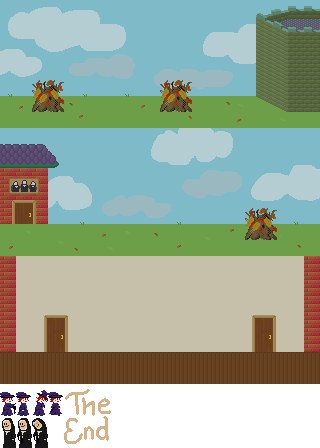
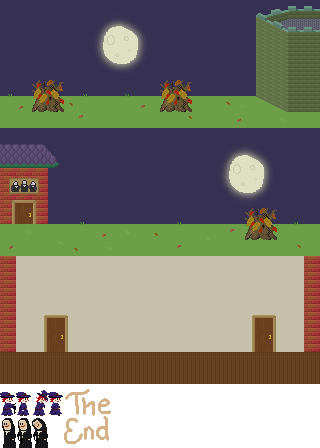
lots of visual tweaks

diff --git a/src/game/sprite/types/sprite_lock.c b/src/game/sprite/types/sprite_lock.c
@@ -3,6 +3,7 @@
 struct sprite_lock {
   struct sprite hdr;
   uint8_t lamps; // 1,2,4
+  double unlock_clock; // If nonzero, counts up.
 };
 
 #define SPRITE ((struct sprite_lock*)sprite)
@@ -15,6 +16,12 @@ static int _lock_init(struct sprite *sprite,const uint8_t *def,int defc) {
 }
 
 static void _lock_update(struct sprite *sprite,double elapsed) {
+  if (SPRITE->unlock_clock>0.0) {
+    if ((SPRITE->unlock_clock+=elapsed)>4.0) {
+      sprite_kill_later(sprite);
+      return;
+    }
+  }
 }
 
 static void _lock_render(struct sprite *sprite,int16_t addx,int16_t addy) {
@@ -22,9 +29,11 @@ static void _lock_render(struct sprite *sprite,int16_t addx,int16_t addy) {
   int16_t dsty=(int16_t)(sprite->y*TILESIZE)+addy;
   int texid=texcache_get_image(&g.texcache,sprite->imageid);
   graf_draw_tile(&g.graf,texid,dstx,dsty,sprite->tileid,0);
-  if (SPRITE->lamps&1) graf_draw_tile(&g.graf,texid,dstx,dsty,sprite->tileid+1,0);
-  if (SPRITE->lamps&2) graf_draw_tile(&g.graf,texid,dstx,dsty,sprite->tileid+2,0);
-  if (SPRITE->lamps&4) graf_draw_tile(&g.graf,texid,dstx,dsty,sprite->tileid+3,0);
+  if ((SPRITE->unlock_clock<=0.0)||!(((int)(SPRITE->unlock_clock*3.0))&1)) {
+    if (SPRITE->lamps&1) graf_draw_tile(&g.graf,texid,dstx,dsty,sprite->tileid+1,0);
+    if (SPRITE->lamps&2) graf_draw_tile(&g.graf,texid,dstx,dsty,sprite->tileid+2,0);
+    if (SPRITE->lamps&4) graf_draw_tile(&g.graf,texid,dstx,dsty,sprite->tileid+3,0);
+  }
 }
 
 const struct sprite_type sprite_type_lock={
@@ -37,10 +46,12 @@ const struct sprite_type sprite_type_lock={
 
 void sprite_lock_set_lamp(struct sprite *sprite,int index,int value) {
   if (!sprite||(sprite->type!=&sprite_type_lock)) return;
+  if (SPRITE->unlock_clock>0.0) return;
   if ((index<0)||(index>7)) return;
   if (value) SPRITE->lamps|=1<<index;
   else SPRITE->lamps&=~(1<<index);
-  if (SPRITE->lamps==0x07) {
+  if ((SPRITE->lamps==0x07)&&(SPRITE->unlock_clock<=0.0)) {
+    SPRITE->unlock_clock=0.001;
     int x=(int)sprite->x,y=(int)sprite->y;
     if ((x>=0)&&(y>=0)&&(x<COLC)&&(y<ROWC)) {
       // Clearing the map cell manages the physics of unlocking, and also the persistence.
@@ -48,6 +59,6 @@ void sprite_lock_set_lamp(struct sprite *sprite,int index,int value) {
     }
     sfx(SFX_UNLOCK);
     //TODO Fireworks?
-    sprite_kill_later(sprite);
+    //sprite_kill_later(sprite);
   }
 }

diff --git a/src/game/sprite/types/sprite_bonfire.c b/src/game/sprite/types/sprite_bonfire.c
@@ -5,11 +5,14 @@ struct sprite_bonfire {
   double animclock;
   int animframe;
   double ttl;
+  int blow;
+  int tileid0;
 };
 
 #define SPRITE ((struct sprite_bonfire*)sprite)
 
 static int _bonfire_init(struct sprite *sprite,const uint8_t *def,int defc) {
+  SPRITE->tileid0=sprite->tileid;
   if (sprite_group_add(GRP(VISIBLE),sprite)<0) return -1;
   if (sprite_group_add(GRP(UPDATE),sprite)<0) return -1;
   if (sprite_group_add(GRP(HAZARD),sprite)<0) return -1;
@@ -17,6 +20,7 @@ static int _bonfire_init(struct sprite *sprite,const uint8_t *def,int defc) {
 }
 
 static void _bonfire_update(struct sprite *sprite,double elapsed) {
+  if (!SPRITE->tileid0) SPRITE->tileid0=sprite->tileid;
   if (SPRITE->ttl>0.0) {
     if ((SPRITE->ttl-=elapsed)<=0.0) {
       sprite_kill_later(sprite);
@@ -26,10 +30,18 @@ static void _bonfire_update(struct sprite *sprite,double elapsed) {
   if ((SPRITE->animclock-=elapsed)<=0.0) {
     SPRITE->animclock+=0.150;
     if (++(SPRITE->animframe)>=4) SPRITE->animframe=0;
-    switch (SPRITE->animframe) {
-      case 0: sprite->tileid-=3; break;
-      default: sprite->tileid++;
-    }
+  }
+  if (SPRITE->blow<0) {
+    SPRITE->blow++;
+    sprite->tileid=0x3b+SPRITE->animframe;
+    sprite->xform=0;
+  } else if (SPRITE->blow>0) {
+    SPRITE->blow--;
+    sprite->tileid=0x3b+SPRITE->animframe;
+    sprite->xform=EGG_XFORM_XREV;
+  } else {
+    sprite->tileid=SPRITE->tileid0+SPRITE->animframe;
+    sprite->xform=0;
   }
 }
 
@@ -49,4 +61,9 @@ const struct sprite_type sprite_type_bonfire={
 void sprite_bonfire_set_ttl(struct sprite *sprite,double ttl) {
   if (!sprite||(sprite->type!=&sprite_type_bonfire)) return;
   SPRITE->ttl=ttl;
+}
+
+void sprite_bonfire_blow(struct sprite *sprite,int dx) {
+  if (!sprite||(sprite->type!=&sprite_type_bonfire)) return;
+  SPRITE->blow=dx*2;
 }

diff --git a/src/game/sprite/types/sprite_fireworks.c b/src/game/sprite/types/sprite_fireworks.c
@@ -1,0 +1,62 @@
+#include "game/penance.h"
+
+#define TTL 3.0
+
+struct sprite_fireworks {
+  struct sprite hdr;
+  double clock; // Counts up.
+};
+
+#define SPRITE ((struct sprite_fireworks*)sprite)
+
+static int _fireworks_init(struct sprite *sprite,const uint8_t *def,int defc) {
+  if (!sprite->imageid) {
+    sprite->imageid=RID_image_hero;
+    sprite->tileid=0x63;
+  }
+  sprite_group_add(GRP(VISIBLE),sprite);
+  sprite_group_add(GRP(UPDATE),sprite);
+  return 0;
+}
+
+static void _fireworks_update(struct sprite *sprite,double elapsed) {
+  SPRITE->clock+=elapsed;
+  if (SPRITE->clock>=TTL) {
+    sprite_kill_later(sprite);
+    return;
+  }
+}
+
+static void _fireworks_render(struct sprite *sprite,int16_t addx,int16_t addy) {
+  #define PARTICLEC 7
+  int texid=texcache_get_image(&g.texcache,sprite->imageid);
+  int i=PARTICLEC;
+  double t=0.0;
+  double dt=(M_PI*2.0)/PARTICLEC;
+  double radius=SPRITE->clock*8.0;
+  uint8_t tileid=sprite->tileid;
+  switch (((int)(SPRITE->clock*10.0))%6) {
+    case 0: tileid+=0; break;
+    case 1: tileid+=1; break;
+    case 2: tileid+=2; break;
+    case 3: tileid+=3; break;
+    case 4: tileid+=2; break;
+    case 5: tileid+=1; break;
+  }
+  graf_set_alpha(&g.graf,((TTL-SPRITE->clock)*255.0)/TTL);
+  for (;i-->0;t+=dt) {
+    double x=(sprite->x+cos(t)*radius)*TILESIZE;
+    double y=(sprite->y+sin(t)*radius)*TILESIZE;
+    graf_draw_tile(&g.graf,texid,(int16_t)x+addx,(int16_t)y+addy,tileid,0);
+  }
+  graf_set_alpha(&g.graf,0xff);
+  #undef PARTICLEC
+}
+
+const struct sprite_type sprite_type_fireworks={
+  .name="fireworks",
+  .objlen=sizeof(struct sprite_fireworks),
+  .init=_fireworks_init,
+  .update=_fireworks_update,
+  .render=_fireworks_render,
+};

diff --git a/src/game/sprite/sprite.h b/src/game/sprite/sprite.h
@@ -128,6 +128,7 @@ extern const struct sprite_type sprite_type_missile;
 extern const struct sprite_type sprite_type_treadle;
 extern const struct sprite_type sprite_type_lock;
 extern const struct sprite_type sprite_type_scoreboard;
+extern const struct sprite_type sprite_type_fireworks;
 
 // ids get assigned in this order. Use the same as the ^ declarations above.
 #define FOR_EACH_SPRITE_TYPE \
@@ -143,13 +144,15 @@ extern const struct sprite_type sprite_type_scoreboard;
   _(missile) \
   _(treadle) \
   _(lock) \
-  _(scoreboard)
+  _(scoreboard) \
+  _(fireworks)
 
 const struct sprite_type *sprite_type_by_id(int id);
 
 void sprite_fireball_set_direction(struct sprite *sprite,double dx,double dy);
 void sprite_fireball_blow_out(struct sprite *sprite);
 void sprite_bonfire_set_ttl(struct sprite *sprite,double ttl);
+void sprite_bonfire_blow(struct sprite *sprite,int dx); // Must call every frame.
 int sprite_candle_light(struct sprite *sprite); // 0 if invalid or already lit
 int sprite_candle_is_lit(const struct sprite *sprite);
 void sprite_missile_target_hero(struct sprite *sprite);

diff --git a/src/game/sprite/types/sprite_wind.c b/src/game/sprite/types/sprite_wind.c
@@ -59,7 +59,10 @@ static void wind_blow(struct sprite *sprite,double elapsed) {
     if (victim->y>sprite->y+0.5) continue; // My (x,y) is 1/4 from top left, I'm 2x2 tiles.
     if (victim->type==&sprite_type_hero) ;
     else if (victim->type==&sprite_type_fleshpuppet) ;
-    else if (victim->type==&sprite_type_fireball) {
+    else if (victim->type==&sprite_type_bonfire) {
+      sprite_bonfire_blow(victim,-1);
+      continue;
+    } else if (victim->type==&sprite_type_fireball) {
       sprite_fireball_blow_out(victim);
       continue;
     } else {

diff --git a/src/game/hero/hero_event.c b/src/game/hero/hero_event.c
@@ -140,6 +140,7 @@ static void hero_end_transform(struct sprite *sprite) {
   SPRITE->mode=HERO_MODE_FREE;
   hero_rectify_position(sprite); // We might be transforming out of BIRD over water.
   sfx(SFX_UNTRANSFORM);
+  struct sprite *fireworks=sprite_spawn_with_type(sprite->x,sprite->y,&sprite_type_fireworks,0,0);
 }
 
 /* Finish hole-spell mode.

diff --git a/README.md b/README.md
@@ -11,11 +11,13 @@ For [GDEX Game Jam 2024](https://itch.io/jam/gdex-game-jam-2024), theme "FULL MO
 Required:
 - [x] Sound effects.
 - [x] Sound effect in web. All screwed up compared to native.
-- [ ] Fireworks when transforming to/from animal.
-- [ ] Crow. Or maybe drop it. Is there any need for a crow's assistance? ...have somebody play at the review session Wednesday
+- [x] Fireworks when transforming to/from animal. ...only "from". Stepping out of the hole is good, doesn't need accentuation.
+- [x] Crow. Or maybe drop it. Is there any need for a crow's assistance? ...have somebody play at the review session Wednesday. Drop it.
 - [ ] Open Itch page to public. Currently password "dot-in-a-habit"
 
 Stretch goals or uncertain:
+- [ ] Make the three cluestones more distinctive.
+- [x] Change the finale to night with a big full moon.
 - [ ] Hello: Roll in credits after a delay?
 - [ ] Static map animation, eg ripples on water.
 - [ ] Visual transitions.
@@ -24,6 +26,10 @@ Stretch goals or uncertain:
 - - [ ] Review instruments again, after I've heard them all a few times.
 - - [ ] '' sound effects.
 - [ ] fleshpuppet should take damage while ghost. There's very few places where damage is possible, I don't think this matters.
+- [x] Bonfires react to wind.
+- [ ] Tone down the lake just south of the fireball cluestone. Or put a secret there. Looks like a secret.
+- [x] Can we lead them into the tree stump harder at first? ...yes: Put the stump out in the middle of the clearing.
+- [ ] Vertical fireball? Or just "nyrrrgh" when they go UUUU or DDDD.
 
 ## Recommended Course
 
@@ -41,3 +47,5 @@ Stretch goals or uncertain:
 - candle3
 - Temple: Wrap-up
 
+16:27.190 Jamesanity
+18:39.783 Earthshine (Darius)
